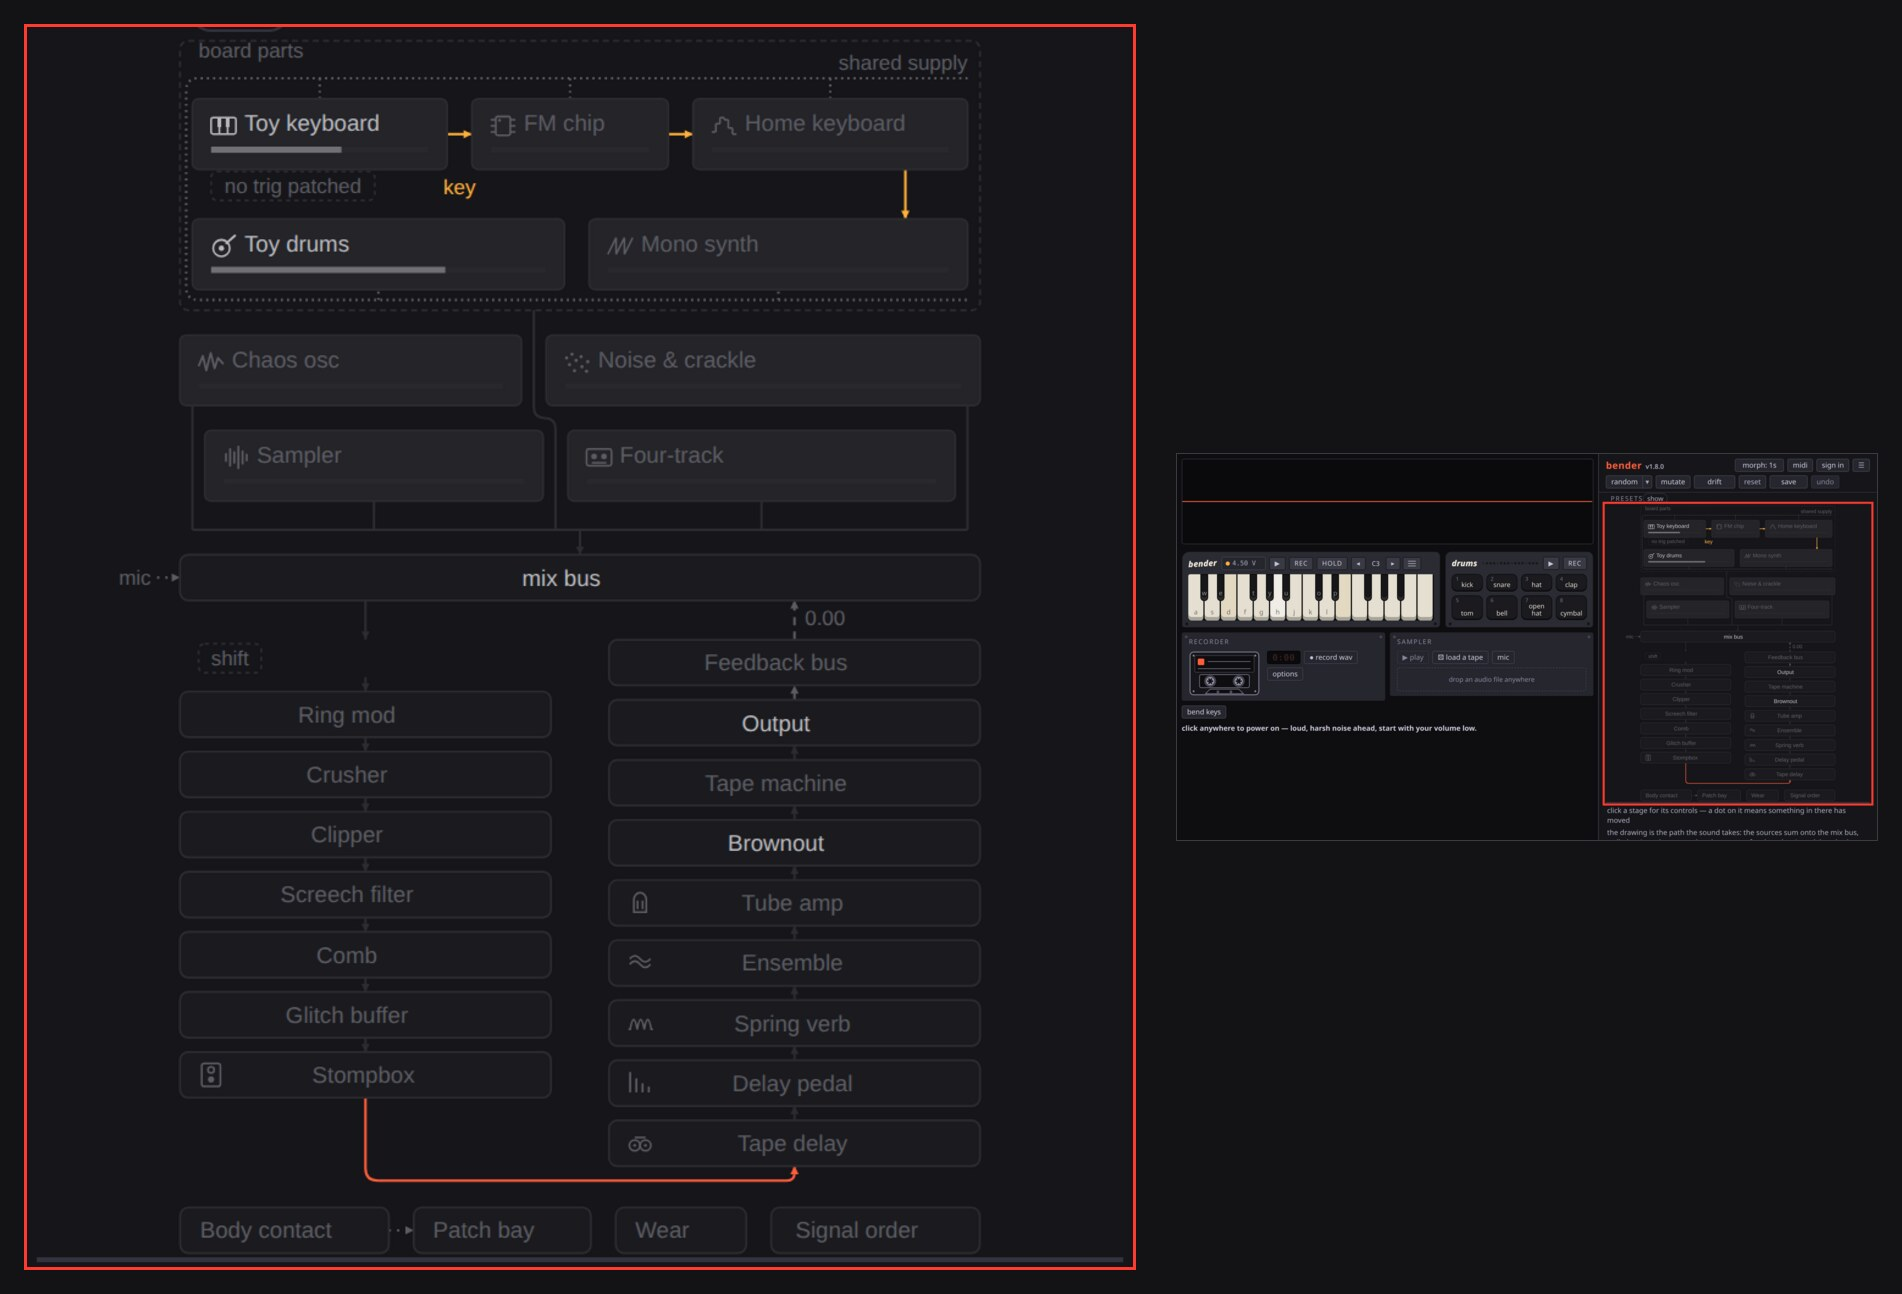
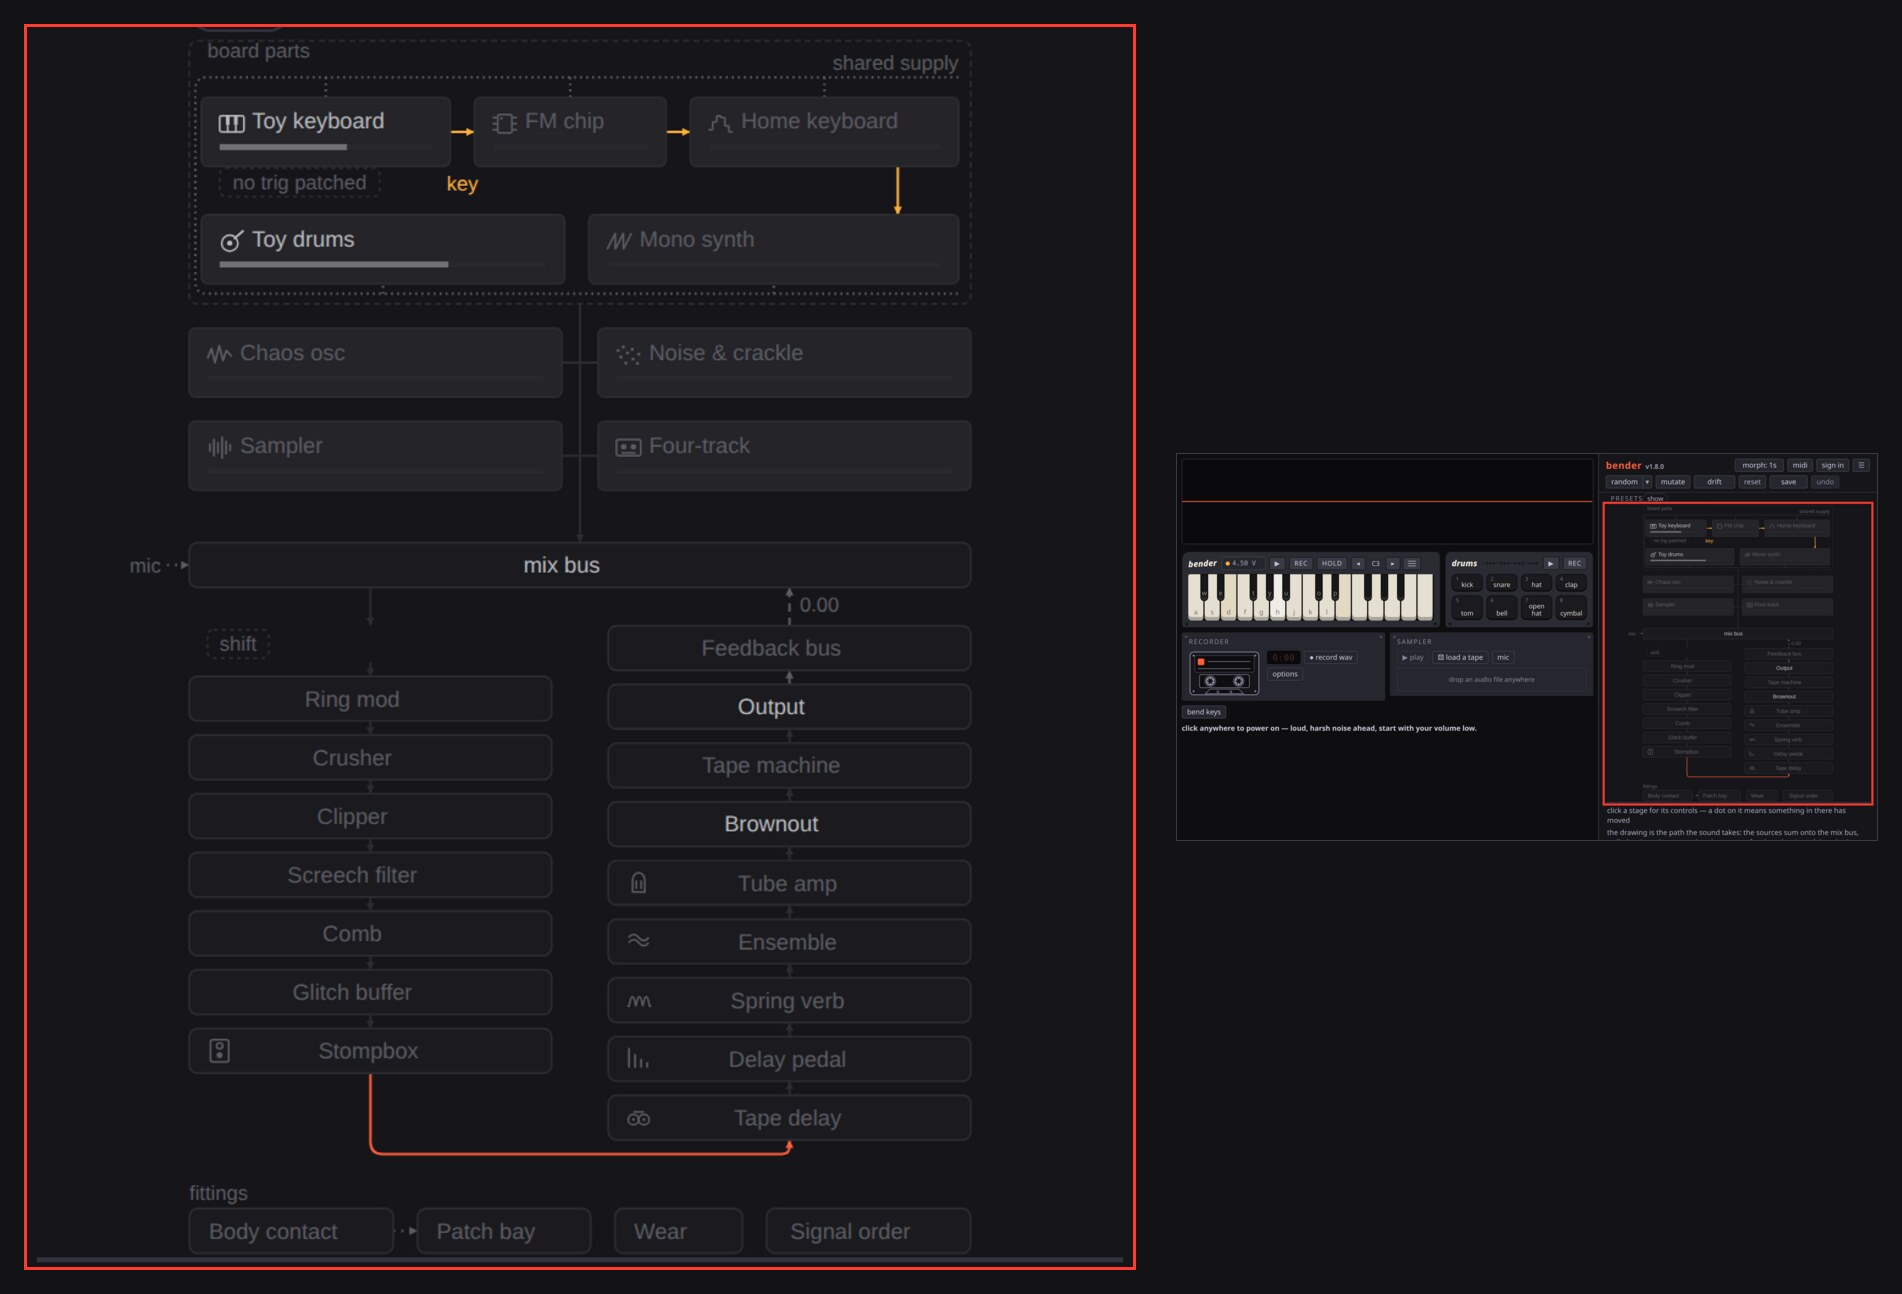
feat(ui): hang the line sources off one bus line and name the foot row
The four line sources draw as an even 2x2 grid on a single bus line, so
Sampler and Four-track no longer read as nested under Chaos osc and Noise.
A fittings caption marks the foot row as alongside the path. Both replace
the spine and caption options. Diagrams and figure regenerated.

diff --git a/src/ui/chain-map.ts b/src/ui/chain-map.ts
@@ -384,11 +384,6 @@ export interface Options {
       sits between them. Only where the feedback lands on the mix bus; any other
       destination folds the usual way. */
   loop?: boolean
-  /** With wrap, lays the four line sources out as an even grid hung off one
-      bus line down the middle, instead of an inset pair under a pair. */
-  spine?: boolean
-  /** Names the foot row, so it reads as fittings rather than a fourth stage. */
-  caption?: boolean
   /** The stage whose controls the panel is showing, lit on the map. */
   open?: string
   /** Sources putting something on the bus right now, off the meters the desk
@@ -552,10 +547,9 @@ export function buildMap(c: Controls, o: Options = {}): ChainMap {
   const lower = new Set(chipRows[1] ?? [])
   const lines = LINE_ROW.map(instrument)
   // Four across is wider than the panel's column too, so the panel stacks them
-  // two and two. The upper pair's leads run down the outside of the lower pair,
-  // which sits in from the edges to leave them the room.
+  // two and two, an even grid hung off one bus line down the middle.
   const lineRows = o.wrap ? [lines.slice(0, 2), lines.slice(2)] : [lines]
-  const spine = !!o.wrap && !!o.spine
+  const spine = !!o.wrap
   const lineGap = spine ? INST_GAP * 1.5 : INST_GAP
   // The frame is a door too: the parts on the board — the cap on the timing
   // pin, the reset chip, the one output stage — are what the outline is round.
@@ -671,14 +665,12 @@ export function buildMap(c: Controls, o: Options = {}): ChainMap {
       c.relayRate > 0,
   )
   const order = stage('Signal order', touchedCount('Signal order', c) > 0)
-  const fittings = o.caption
-    ? node('fittings', 'label', 'fittings', {
-        w: textWidth('fittings', SMALL),
-        active: false,
-        anchor: 'start',
-        h: LABEL_H,
-      })
-    : undefined
+  const fittings = node('fittings', 'label', 'fittings', {
+    w: textWidth('fittings', SMALL),
+    active: false,
+    anchor: 'start',
+    h: LABEL_H,
+  })
   // Pad then bay, left to right, because that is the way the one wire between
   // them runs: the pad's two axes reach the board only through the bay. Wear
   // and Signal order touch neither, so they stand clear on the end.
@@ -719,10 +711,7 @@ export function buildMap(c: Controls, o: Options = {}): ChainMap {
       ...chipRows.map(
         row => sum(row) + INST_GAP * (row.length - 1) + FRAME_PAD * 2,
       ),
-      ...lineRows.map(
-        (row, r) =>
-          sum(row) + INST_GAP * (row.length - 1) + (r > 0 ? 2 * INST_GAP : 0),
-      ),
+      ...lineRows.map(row => sum(row) + INST_GAP * (row.length - 1)),
       sum(foot) + INST_GAP * (foot.length - 1),
       cols *
         Math.max(
@@ -817,9 +806,9 @@ export function buildMap(c: Controls, o: Options = {}): ChainMap {
   const bodyBottom = pathTop + Math.max(stack(down), stack(upCol))
   if (!loop) bus.y = bodyBottom + BUS_GAP
   const captionY = loop ? bodyBottom + BUS_GAP : bus.y + bus.h + ROW_GAP
-  const footY = captionY + (o.caption ? LABEL_H + 2 : 0)
+  const footY = captionY + LABEL_H + 2
   for (const n of foot) n.y = footY
-  if (fittings) fittings.y = captionY
+  fittings.y = captionY
 
   // --- across it, at an origin of zero, so the gutters can be measured off the
   // --- x each box has already landed on and everything shifted once after ----
@@ -834,17 +823,16 @@ export function buildMap(c: Controls, o: Options = {}): ChainMap {
       row.map(() => INST_GAP),
       natural,
     )
-  for (const [r, row] of lineRows.entries()) {
+  for (const row of lineRows) {
     if (spine) {
       const w = (content - lineGap) / 2
       for (const [i, n] of row.entries()) [n.w, n.x] = [w, i * (w + lineGap)]
       continue
     }
-    const inset = r > 0 ? INST_GAP : 0
     spread(
       row,
-      inset,
-      content - 2 * inset,
+      0,
+      content,
       row.map(() => INST_GAP),
       natural,
     )
@@ -923,7 +911,7 @@ export function buildMap(c: Controls, o: Options = {}): ChainMap {
   const colX = MARGIN + sideGutter
   for (const n of [...path, ...band, ...foot, ...parts, board, mix, bus])
     n.x += colX
-  if (fittings) fittings.x = foot[0]!.x
+  fittings.x = foot[0]!.x
 
   const width = MARGIN * 2 + sideGutter * 2 + content
   const laneX = (side: Side) =>
@@ -1163,16 +1151,14 @@ export function buildMap(c: Controls, o: Options = {}): ChainMap {
   const gapX = (row: MapNode[]) =>
     row.length > 1 ? (row[0]!.x + row[0]!.w + row[1]!.x) / 2 : mix.x + mix.w / 2
   const channels = lineRows.map(gapX)
-  const between = (r: number) => lineRows[r]![0]!.y - BAND_GAP / 2
-  const boardOut: Point[] = [[channels[0]!, board.y + board.h]]
-  for (let r = 1; r < channels.length; r++)
-    boardOut.push([channels[r - 1]!, between(r)], [channels[r]!, between(r)])
-  boardOut.push([channels[channels.length - 1]!, collectY])
   bar(
     'board-out',
     board,
     mix,
-    spine ? [boardOut[0]!, boardOut[boardOut.length - 1]!] : boardOut,
+    [
+      [channels[0]!, board.y + board.h],
+      [channels[0]!, collectY],
+    ],
     { color: k.border },
   )
   if (spine) {
@@ -1189,18 +1175,10 @@ export function buildMap(c: Controls, o: Options = {}): ChainMap {
           { color: k.border },
         )
   }
-  // The upper pair of a stacked band leads down its outer edges, clear of the
-  // pair under it.
-  const leadX = (src: MapNode, r: number, i: number) =>
-    r < lineRows.length - 1
-      ? i === 0
-        ? src.x + INST_GAP / 2
-        : src.x + src.w - INST_GAP / 2
-      : midX(src)
   const leads: number[] = []
-  for (const [r, row] of spine ? [] : lineRows.entries())
-    for (const [i, src] of row.entries()) {
-      const x = leadX(src, r, i)
+  for (const row of spine ? [] : lineRows)
+    for (const src of row) {
+      const x = midX(src)
       leads.push(x)
       bar(
         `${src.id}-out`,
@@ -1450,7 +1428,7 @@ export function buildMap(c: Controls, o: Options = {}): ChainMap {
       ...parts,
       ...notes,
       ...labels,
-      ...(fittings ? [fittings] : []),
+      fittings,
     ],
     wires,
     doors,

diff --git a/src/ui/chain-map.test.ts b/src/ui/chain-map.test.ts
@@ -645,13 +645,21 @@ test('the loop runs the second column up, with the feedback bus above Output', (
   checkLayout(map)
 })
 
-test.each([{ spine: true }, { caption: true }, { spine: true, caption: true }])(
-  'the experiment options keep the layout sound: %o',
-  opts => {
-    for (const board of Object.values(BOARDS))
-      checkLayout(buildMap(board, { wrap: true, loop: true, ...opts }))
-  },
-)
+test('the folded band is an even grid, with a caption over the foot row', () => {
+  const map = buildMap(DEFAULT_CONTROLS, { wrap: true, loop: true })
+  const chaos = box(map, 'Chaos_osc')!
+  const noise = box(map, 'Noise_crackle')!
+  const sampler = box(map, 'Sampler')!
+  const tape = box(map, 'Four_track')!
+  expect(sampler.x).toBe(chaos.x)
+  expect(sampler.w).toBe(chaos.w)
+  expect(tape.x).toBe(noise.x)
+  expect(noise.y).toBe(chaos.y)
+  const caption = box(map, 'fittings')!
+  const bay = box(map, 'Patch_bay')!
+  expect(caption.label).toBe('fittings')
+  expect(caption.y + caption.h).toBeLessThanOrEqual(bay.y)
+})
 
 test('the loop folds the usual way where the feedback lands off the mix bus', () => {
   const to = (loop: boolean) =>
